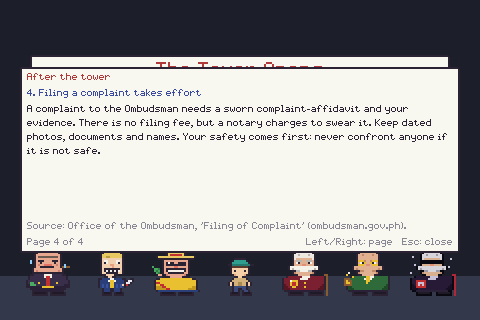
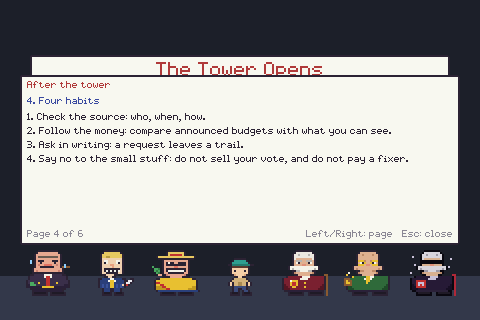
feat: re-theme the tower around real Philippine corruption cases (story 018)
Composite bosses anchored in documented cases: the pork barrel scam, election
disinformation, vote-buying, nepotism and dynasties, the 2025 flood control ghost
projects, budget insertions and hidden records. Case files gain a second real-case
page, the closing guide adds three cases across administrations, and
design/lessons-sources.md records sources and what to re-check. No real person is named.

Story: longer-game story-018

diff --git a/design/lessons-sources.md b/design/lessons-sources.md
@@ -30,3 +30,23 @@ The made-up stories (Aling Nena, Mark's lola, Mang Berto, Jenny, Lola Fe, report
 - Names of living people as wrongdoers. The game names laws, courts, agencies and published events only.
 - Court convictions of named people, prison terms, and hotline numbers other than the CSC text line.
 - 2026 news (reported new floods, protests and a reported Supreme Court ruling on political dynasties) that the search returned but that could not be confirmed.
+
+## Added in story 018 (real cases behind the floors)
+
+The six bosses are **composite characters** named after their role (the Fund Fixer, the Spokesperson, the Campaign Manager, the Director General, the Chief Engineer, the Minister of Secrecy). They are not any real person. Each floor is built on a documented case, and the case file says what really happened. No real person is named anywhere in the game.
+
+| Floor / case | Statement in the game | Source | How it was checked |
+|---|---|---|---|
+| 1 Pork barrel (earlier administrations) | A COA special audit of 2007 to 2009 flagged billions of pesos sent to doubtful NGOs; the Supreme Court declared the PDAF unconstitutional in Nov. 2013 | Belgica v. Ochoa, G.R. No. 208566; COA special audit; Inquirer, Rappler, Philstar | Several outlets and the case page agree. Reports give different totals, so the game says "billions". |
+| 1 | In 2018 the Sandiganbayan convicted the scam's operator of plunder and more convictions followed; a former senator tried in the same case was acquitted of plunder | Inquirer, Philstar, Rappler, Dec. 2018 and 2019 | Several outlets agree. Whether every conviction is final was not checked, so the game says "convicted", not "jailed". *Re-check.* |
+| 4 Jobs for family | Ateneo researchers estimated about two thirds to three quarters of Congress came from political families (2012 to 2019 studies) | Ateneo School of Government; Inquirer | Search returned the studies' figures (70% in 2012, 75% in 2013, 67% in 2019). No 2022 or 2025 figure was found. Methods differ. |
+| 5 Flood control (current administration) | July 2025: the President ordered an audit. Aug. 2025: 15 contractors had won over 100 billion pesos in flood control contracts since 2022. At least 421 of about 8,000 inspected projects were "ghost projects". The Independent Commission for Infrastructure was created Sept. 2025 (EO 94) | Tribune timeline (Feb. 2026); Inquirer; Asia News Network; SunStar | Several outlets agree. The scandal is still developing, so these figures may change. |
+| 5 | Sept. 2025 Senate hearing: a former district engineer testified he passed 25 percent kickbacks to lawmakers' staff; those named deny it. Nov. 2025: the Ombudsman filed the first charges at the Sandiganbayan, over a substandard dike in Oriental Mindoro | Gulf News; Malaya Business Insight; Tribune timeline | Reported as an allegation and a filing, not as findings. The game says the accused are presumed innocent. *Re-check for newer court outcomes.* |
+| 5 | Large rallies in Sept. 2025 demanded accountability | Tribune timeline; Wikipedia ("Trillion Peso March") | Several sources agree. |
+| 6 Budget insertions | In 2025 a senator said the Senate added about 100 billion pesos; Senate leaders said insertions are part of the budget process | Inquirer; Philstar, Sept. 2025 | News headlines of statements by named people, attributed in the game as claims ("one senator said"). *Re-check.* |
+| Finale | Pandemic supplies (2021): a firm with 625,000 pesos in paid-up capital won the biggest contracts; the Senate questioned the prices; COA found lapses in the health department's fund handling but said it found no overpricing | Philstar and Inquirer, 2021; COA | The findings were disputed in public, which the game says. A 2023 Ombudsman result was seen only in a secondary source and is left out. |
+
+## Left out of the game on purpose (story 018)
+
+- Any real person's name as accused or convicted, including senators, contractors and officials in the 2025 hearings, and the 2026 arrests and charges reported in the search results (not confirmed from a primary source).
+- Totals of frozen funds and numbers of rallies, which varied between outlets.

diff --git a/production/epics/longer-game/story-018-philippine-cases.md b/production/epics/longer-game/story-018-philippine-cases.md
@@ -1,0 +1,56 @@
+# Story 018: Re-theme the tower around real Philippine corruption cases
+
+> **Epic**: longer-game
+> **Status**: Complete
+> **Layer**: Content
+> **Type**: Config/Data
+> **Estimate**: L
+> **Manifest Version**: N/A (minimal — no control manifest)
+> **Last Updated**: 2026-10-28
+
+## Context
+
+**Requirement**: The user asked that the bosses and evidence gathering be about corruption scandals in the Philippines, highlighting the latest administration's, including flood control. The approach chosen: composite characters anchored in real, documented cases; several administrations covered, with the latest given the most weight; no real person named.
+
+---
+
+## Acceptance Criteria
+
+- [x] The six floors are built on documented cases: the pork barrel (PDAF) scam, election disinformation, vote-buying, nepotism and political dynasties, flood control ghost projects (current administration), and budget insertions with hidden records.
+- [x] Evidence, fact-checks, dialogue, boss lies and floor text on floors 1, 5 and 6 match those cases; ids are unchanged so saves and code keep working.
+- [x] No real person is named; bosses are composite roles.
+- [x] Each case file has a "real case" page and, where there is more to say, a second page ("what happened next" or "how common it is"), with named sources.
+- [x] The closing guide adds "Three cases, three administrations" and "What the cases share" pages, and says accused people are presumed innocent.
+- [x] `design/lessons-sources.md` lists every new fact, its sources, how it was checked and what to re-check.
+- [x] A recorded keyboard-only run reads every case file and the closing guide.
+
+---
+
+## Out of Scope
+
+- Naming real people, even those charged; satirical portraits of real politicians.
+- A local expert's fact review and a Filipino translation (recommended next).
+
+---
+
+## Files
+
+- `data/lessons.json`, `data/evidence/evidence.json`, `data/factchecks/factchecks.json`, `data/dialogue/dialogues.json`, `data/bosses/`, `data/floors/floor_1.json`, `floor_5.json`
+- `src/game/lessons.gd` (optional second real-case page), `design/lessons-sources.md`
+
+## Test Evidence
+
+**Story Type**: Config/Data
+**Status**: [x] Playtest record `production/qa/evidence/story-017-learning-layer-evidence.md` (updated) with screenshots in `production/qa/evidence/story-017-learning-layer/`
+
+---
+
+## Dependencies
+
+- Depends on: `production/epics/longer-game/story-017-learning-layer.md`
+
+## Completion Notes
+**Completed**: 2026-10-28
+**Criteria**: 7/7 passing
+**Deviations**: The facts come from web searches (news and law-site summaries); the 2025 to 2026 flood control cases are still moving, so the file lists what to re-check. Floors 2 to 4 keep their earlier look; only their case files changed (floor 4 gained a second page).
+**Reviewed by**: self, no independent review

diff --git a/production/qa/evidence/story-017-learning-layer-evidence.md b/production/qa/evidence/story-017-learning-layer-evidence.md
@@ -26,3 +26,7 @@ The two "get_node on null" messages in the log come from the test script touchin
 - The real-world facts and their sources are in `design/lessons-sources.md`, with the items that should be re-checked by a person before the game is shared widely.
 - The case file opens over the floor without dimming it; it is readable but a dim layer behind it would look more finished.
 - Sign-off for the UI evidence is the user's, on story-done.
+
+## Update, story 018 (real Philippine cases)
+
+The content was re-themed around documented cases (pork barrel, flood control ghost projects, budget insertions, and more), and the case files gained a second real-case page (so a case file now has 5 or 6 pages and the closing guide has 6). Both tests were rerun and pass (35 playthrough checks). The screenshots in `story-017-learning-layer/` were retaken: for example `L-floor5-page-2` and `-3` (flood control: what happened, then the allegations and first charges), `L-journal-case1-page-2` and `-3` (the pork barrel case), and `L-finale-page-2` (three cases, three administrations). Facts and caveats: `design/lessons-sources.md`.

diff --git a/production/epics/longer-game/EPIC.md b/production/epics/longer-game/EPIC.md
@@ -17,4 +17,5 @@ Navigation and saving first (012), then the new floors (013, 014), then the titl
 | 014 | Floors 5 and 6 and difficulty | Integration | Complete | N/A |
 | 015 | Title screen and multiple endings | UI | Complete | N/A |
 | 017 | Learning layer (case files, Tower Journal, closing guide) | UI | Complete | N/A |
+| 018 | Re-theme around real Philippine cases | Config/Data | Complete | N/A |
 | 016 | Web export | Config/Data | Ready | N/A |
